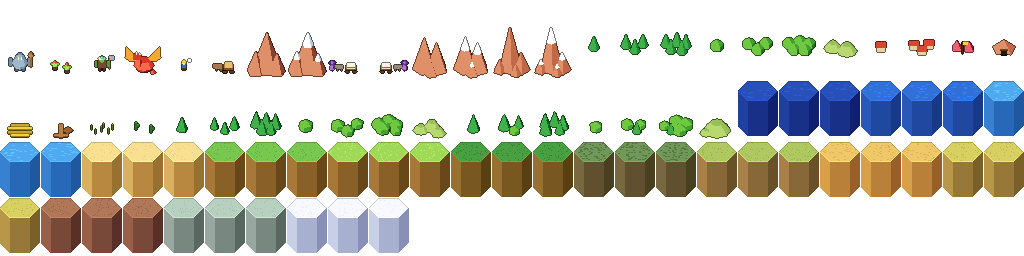
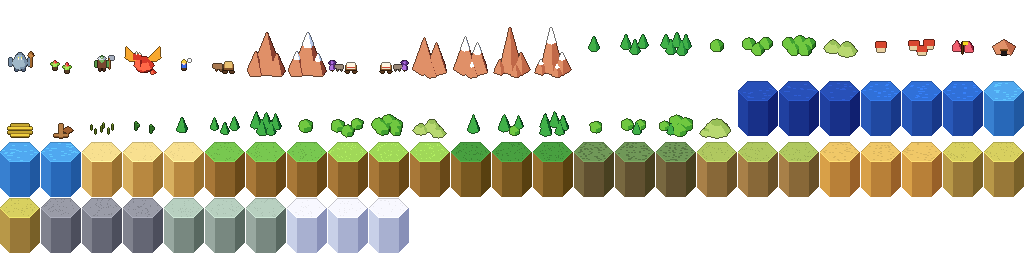
Gray granite mountains with texture (gullies with lingering snow, broken rock bands, scree, a treeline); sandstone ranges beside deserts; gray rock hexes
Claude-Session: https://claude.ai/code/session_019bZj63bfJ4yeeeApDeBWPP

Changed region(s): [[0.0312, 0.75, 0.1562, 1.0]]

diff --git a/src/render/mountains.ts b/src/render/mountains.ts
@@ -16,9 +16,12 @@ import type { World } from '../world/types'
 
 const K = Math.sqrt(3) // ground y -> true distance (the hex top is drawn half as tall as wide)
 
-// palette (matches the Blender rock and snow)
-const ROCK = [[0xe0, 0x90, 0x68], [0xc0, 0x68, 0x48], [0x88, 0x40, 0x30]] // light, mid, dark
-const SNOW = [[0xff, 0xff, 0xff], [0xe4, 0xec, 0xf8], [0xb8, 0xc8, 0xe8]]
+// palettes: light, mid, dark, darkest (gullies and strata go one step darker)
+const GRAY = [[0xc4, 0xc6, 0xcc], [0x96, 0x98, 0xa6], [0x66, 0x68, 0x7a], [0x4a, 0x4c, 0x5e]] // granite and limestone
+const RED = [[0xe0, 0x90, 0x68], [0xc0, 0x68, 0x48], [0x88, 0x40, 0x30], [0x62, 0x2c, 0x22]] // sandstone, near deserts
+const SNOW = [[0xff, 0xff, 0xff], [0xe4, 0xec, 0xf8], [0xb8, 0xc8, 0xe8], [0x9c, 0xb0, 0xd8]]
+const PINE = [[0x6c, 0xa8, 0x44], [0x4c, 0x88, 0x34], [0x36, 0x62, 0x28], [0x28, 0x4a, 0x20]] // forest on the lower slopes
+const WARM_TERRAIN = new Set(['desert', 'savannah'])
 
 const isMountain = (f: string | null) => f === 'mountain' || f === 'mountain_snow'
 
@@ -66,6 +69,28 @@ export class Mountains {
     this.seed = (h % 1000) + 0.5
   }
 
+  private warm = new Map<number, boolean>()
+  /** Is this mountain hex's whole connected range sandstone? (a third or more of the land around it is desert or savannah) */
+  private warmRange(i: number): boolean {
+    const known = this.warm.get(i)
+    if (known !== undefined) return known
+    const { world } = this
+    const range = [i], seen = new Set([i]), rim = new Set<number>()
+    for (let k = 0; k < range.length; k++) {
+      const c = world.cells[range[k]]
+      for (const [nc, nr] of neighbours(c.col, c.row)) {
+        if (nc < 0 || nr < 0 || nc >= world.width || nr >= world.height) continue
+        const j = nr * world.width + nc
+        if (isMountain(world.cells[j].feature)) { if (!seen.has(j)) { seen.add(j); range.push(j) } }
+        else if (world.cells[j].tier > 0) rim.add(j)
+      }
+    }
+    const warmRim = [...rim].filter((j) => WARM_TERRAIN.has(world.cells[j].terrain)).length
+    const warm = rim.size > 0 && warmRim / rim.size >= 1 / 3
+    for (const j of range) this.warm.set(j, warm)
+    return warm
+  }
+
   /** Upload slices drawn since the last frame. */
   flush() { for (const s of this.sheets) if (s.dirty) { s.source.update(); s.dirty = false } }
 
@@ -83,7 +108,7 @@ export class Mountains {
   private near(i: number) {
     const { world } = this
     const c = world.cells[i]
-    const out: { x: number; y: number; tier: number; cold: number; m: boolean }[] = []
+    const out: { x: number; y: number; tier: number; cold: number; warm: number; m: boolean }[] = []
     const seen = new Set<number>([i])
     let ring = [i]
     for (let r = 0; r < 3; r++) {
@@ -91,7 +116,7 @@ export class Mountains {
       for (const j of ring) {
         const cj = world.cells[j]
         const p = hexToPixel(cj.col, cj.row, this.W)
-        out.push({ x: p.x, y: p.y * K, tier: cj.tier, cold: cj.feature === 'mountain_snow' ? 1 : 0, m: isMountain(cj.feature) })
+        out.push({ x: p.x, y: p.y * K, tier: cj.tier, cold: cj.feature === 'mountain_snow' || cj.terrain === 'snow' || cj.terrain === 'tundra' ? 1 : 0, warm: WARM_TERRAIN.has(cj.terrain) ? 1 : 0, m: isMountain(cj.feature) })
         if (r < 2) for (const [nc, nr] of neighbours(cj.col, cj.row)) {
           if (nc < 0 || nr < 0 || nc >= world.width || nr >= world.height) continue
           const k = nr * world.width + nc
@@ -115,11 +140,13 @@ export class Mountains {
       const x = gx, y = gy * K
       let m = 0, wt = 0, tsum = 0, cold = 0
       let mm = 0, all = 0 // soft mountain mask: share of nearby land that is mountain
+      let warm = 0, chill = 0 // the land around: deserts warm the rock's colour, snowfields keep trees off
       let dM = Infinity, dN = Infinity
       for (const p of pts) {
         const d2 = (x - p.x) ** 2 + (y - p.y) ** 2
         const wm = Math.exp(-d2 * km)
         all += wm
+        warm += wm * p.warm; chill += wm * p.cold
         if (p.m) dM = Math.min(dM, d2)
         else dN = Math.min(dN, d2)
         if (p.m) {
@@ -128,7 +155,7 @@ export class Mountains {
           mm += wm
         }
       }
-      if (wt <= 0) return { alt: 0, snow: Infinity, ground: 0 }
+      if (wt <= 0) return { alt: 0, snow: Infinity, ground: 0, warm: 0, cold: 0 }
       // rounded outline and gentle foothills from the blurred mask (no per-hex bumps)
       // the mask is 1/2 on the border with lowland hexes: height falls to nothing there
       const fade = Math.max(0, Math.min(1, (mm / all - 0.5) / 0.42))
@@ -148,7 +175,7 @@ export class Mountains {
       const snowLine = TP * 6 + W * (0.85 - 0.45 * (cold / wt))
       // jaggedness: mid-sized knobs over the whole surface, strongest up high
       const h = eased * Math.pow(edge, 0.8) + fine * W * (0.05 + 0.1 * Math.min(1, eased / W)) * edge
-      return { alt: tier * TP + Math.max(0, h), snow: snowLine, ground: tier * TP }
+      return { alt: tier * TP + Math.max(0, h), snow: snowLine, ground: tier * TP, warm: Math.min(1, (warm / all) * 2.5), cold: Math.min(1, chill / all + cold / wt) }
     }
   }
 
@@ -171,6 +198,7 @@ export class Mountains {
     const STEP = 0.5
     const rows = Math.round((2 * hh) / STEP) + 1
     const Z = new Float32Array(rows * w), SN = new Float32Array(rows * w), ALT = new Float32Array(rows * w)
+    const GR = new Float32Array(rows * w), WM = new Float32Array(rows * w), CD = new Float32Array(rows * w)
     for (let r = 0; r < rows; r++) {
       const dy = -hh + r * STEP
       for (let col = 0; col < w; col++) {
@@ -181,6 +209,9 @@ export class Mountains {
         Z[r * w + col] = f.alt - base
         ALT[r * w + col] = f.alt
         SN[r * w + col] = f.snow
+        GR[r * w + col] = f.ground
+        WM[r * w + col] = f.warm
+        CD[r * w + col] = f.cold
       }
     }
     // round off the sharpest tips: two light smoothing passes over the grid
@@ -193,6 +224,8 @@ export class Mountains {
         Z[k] = src[k] * 0.5 + n * 0.5
       }
     }
+    // one rock colour per range: sandstone beside deserts, granite elsewhere
+    const warmHex = this.warmRange(i)
     const zg = (r: number, col: number) => Z[Math.max(0, Math.min(rows - 1, r)) * w + Math.max(0, Math.min(w - 1, col))]
     for (let col = 0; col < w; col++) {
       const dx = col + 0.5 - hw
@@ -213,9 +246,32 @@ export class Mountains {
         const nx = -dzx, ny = -dzy, nz = 1.2
         const lit = (-0.6 * nx + 0.5 * ny + 0.6 * nz) / Math.hypot(nx, ny, nz)
         const tone = lit > 0.7 ? 0 : lit > 0.42 ? 1 : 2
-        const snowy = ALT[r * w + col] + (hash2(p.x + dx, p.y + dy, 3) - 0.5) * 2 > SN[r * w + col]
-        const rgb = (snowy ? SNOW : ROCK)[tone]
+        const k = r * w + col
+        const gx = p.x + dx, gy = p.y + dy
+        const steep = Math.min(1, Math.hypot(dzx, dzy) / 1.6)
+        // rock colour: gray, warming to sandstone near deserts (blended)
+        const ROCK = warmHex ? RED : GRAY
         for (let y = Math.max(0, sy); y < floor; y++) {
+          // each painted row is a little lower down the slope than the one above it
+          const alt = ALT[k] - (y - sy)
+          const rel = alt - GR[k]
+          let t = tone
+          let pal: number[][] | null = null
+          // erosion gullies: long streaks running down the steeper slopes
+          const gully = vnoise(gx / (0.08 * W), alt / (0.8 * W), this.seed + 21) > 0.74 && steep > 0.35
+          // strata: faint level bands of rock
+          const band = steep > 0.55 && Math.sin((alt / (0.16 * W)) * Math.PI * 2 + vnoise(gx / (0.9 * W), gy / (0.9 * W), this.seed + 31) * 5) > 0.96
+          if (gully || (band && hash2(Math.floor(gx / 3), Math.floor(alt), 13) < 0.55)) t = Math.min(3, t + 1) // bands break up into short dashes
+          // scree: speckled loose stone low down
+          if (rel < 0.32 * W && hash2(gx, y, 7) < 0.07) t = Math.max(0, Math.min(3, t + (hash2(gx, y, 8) < 0.5 ? -1 : 1)))
+          const snowLine = SN[k] + (hash2(gx, y, 3) - 0.5) * 2
+          if (alt > snowLine || (gully && alt > snowLine - 0.2 * W)) pal = SNOW // snow, and snow lingering in gullies
+          else if (!warmHex && CD[k] < 0.5) {
+            // treeline: solid forest low down, thinning out (dithered) over a narrow band at its top
+            const line = (0.13 + 0.12 * vnoise(gx / (0.5 * W), gy / (0.5 * W), this.seed + 41)) * W
+            if (rel < line - 2 || (rel < line + 2 && hash2(gx, y, 11) < (line + 2 - rel) / 4)) { pal = PINE; t = Math.min(3, tone + 1) }
+          }
+          const rgb = (pal ?? ROCK)[Math.min(t, 3)]
           const o = (y * w + col) * 4
           img[o] = rgb[0]; img[o + 1] = rgb[1]; img[o + 2] = rgb[2]; img[o + 3] = 255
         }
